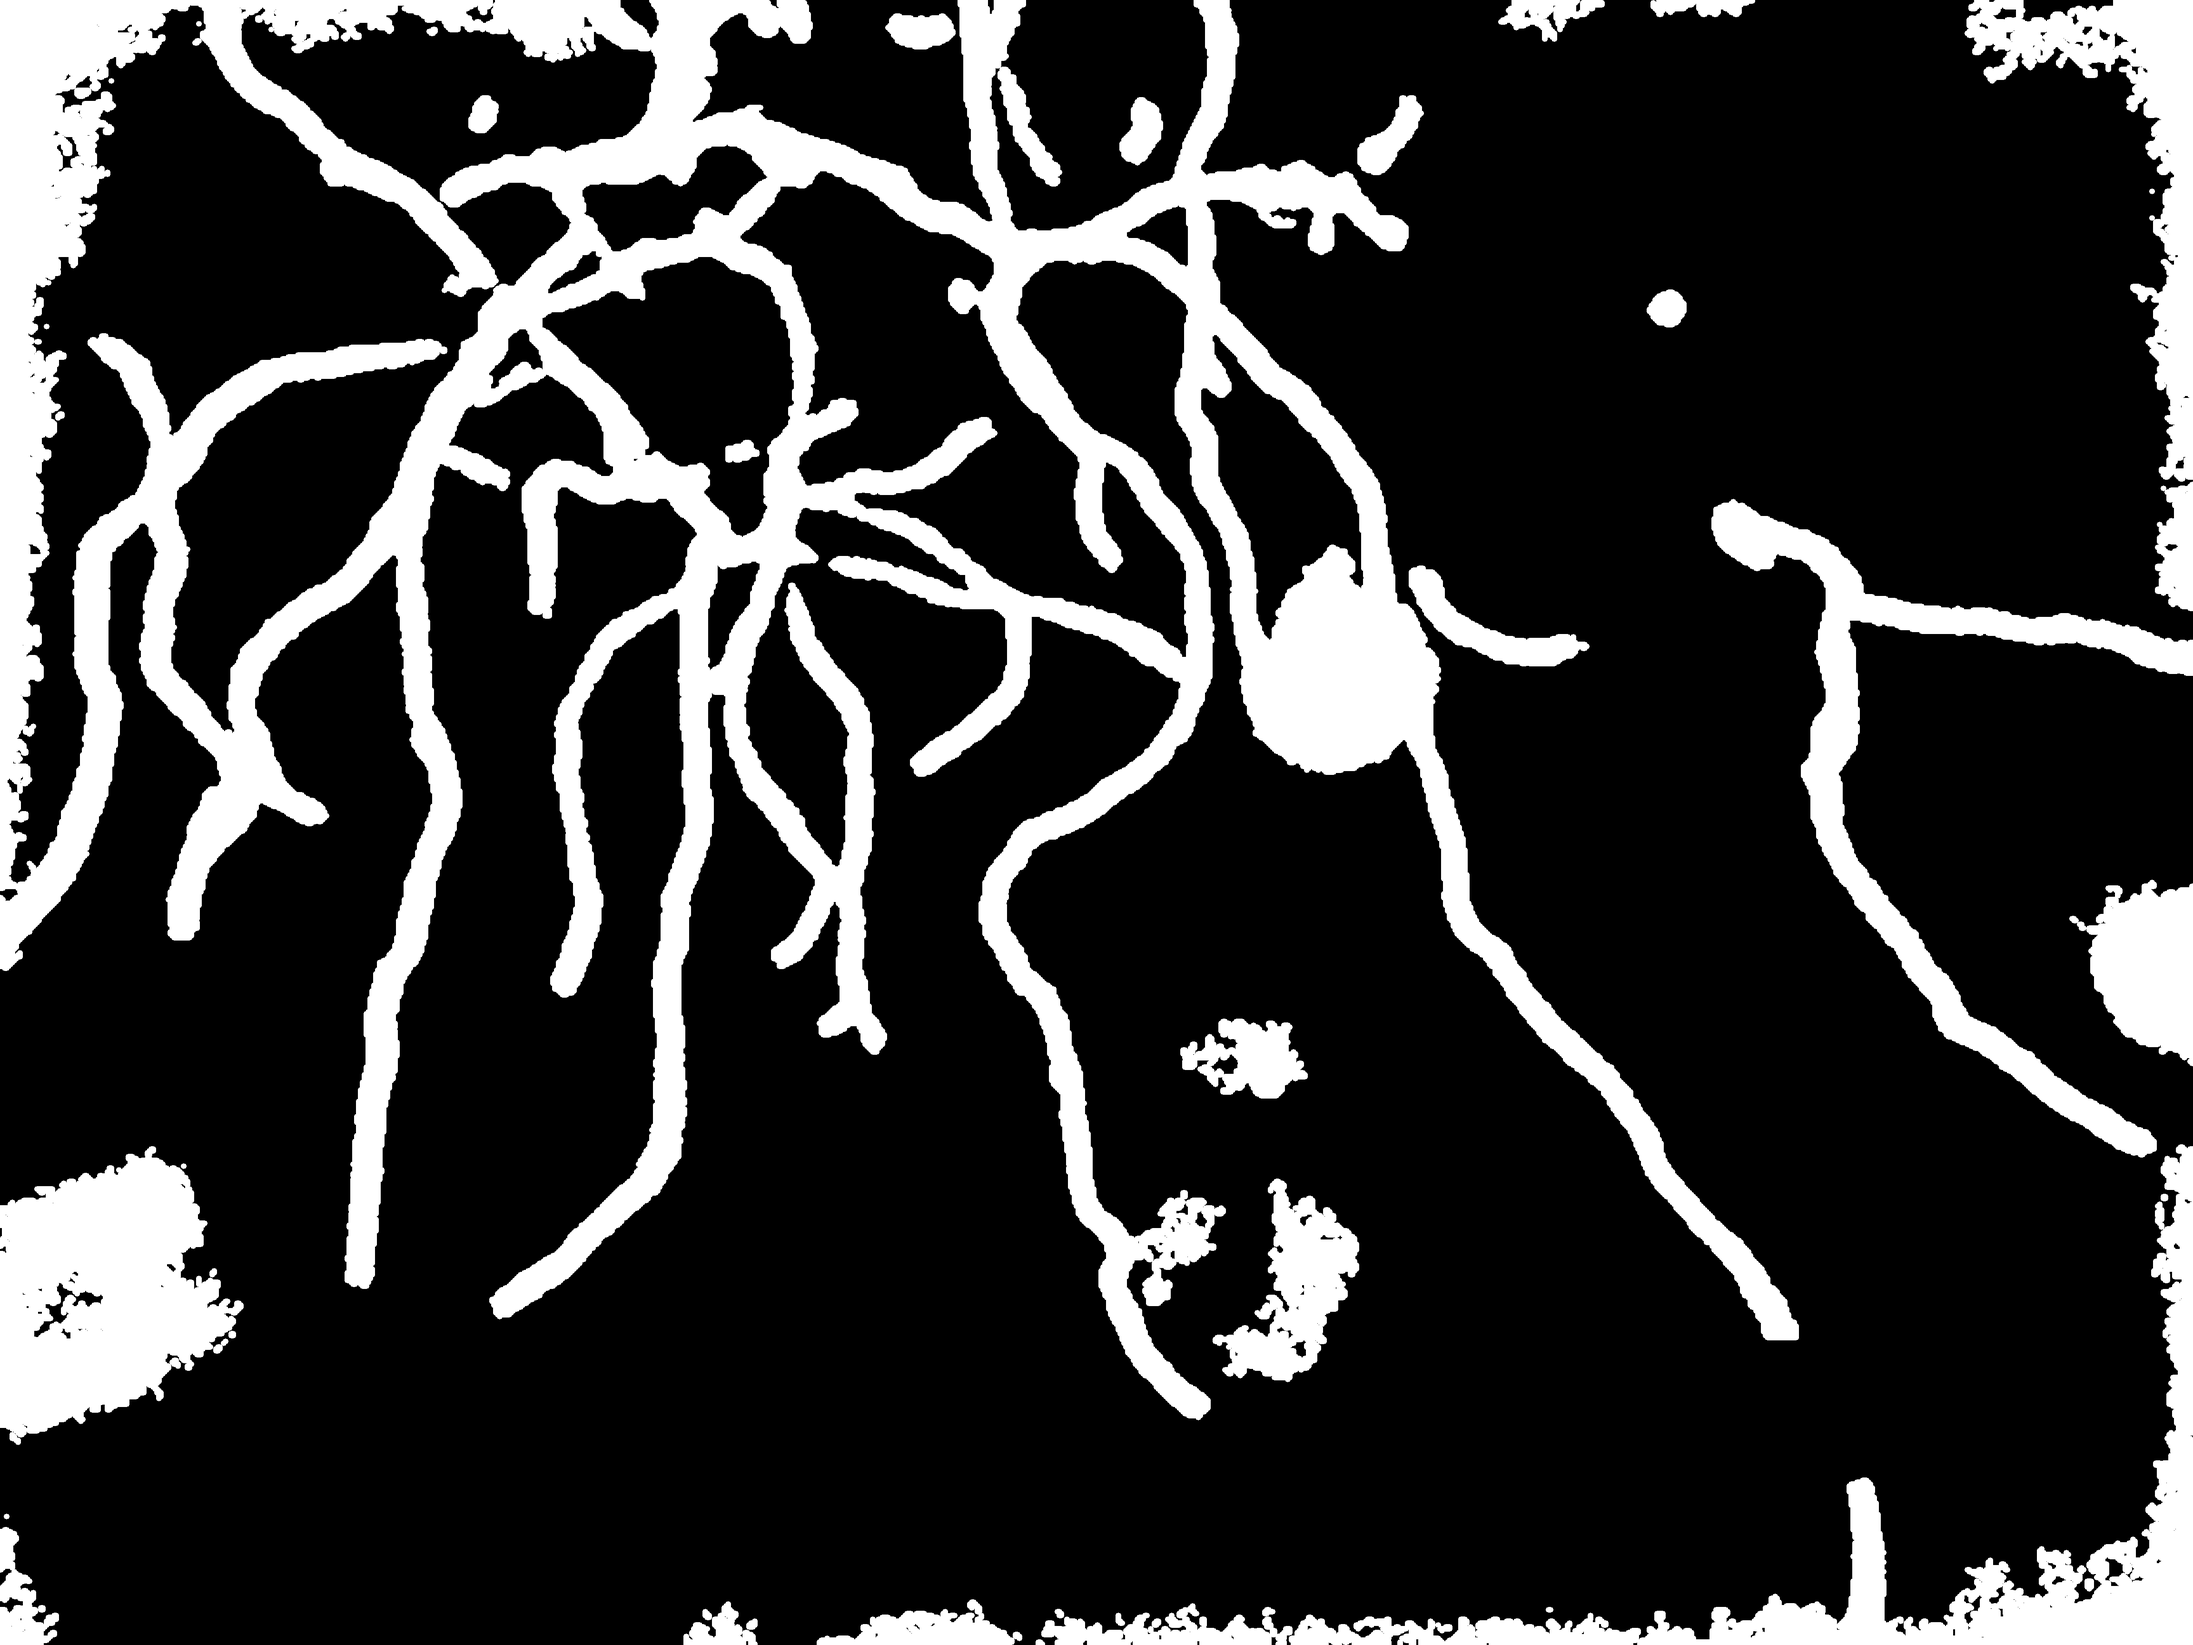
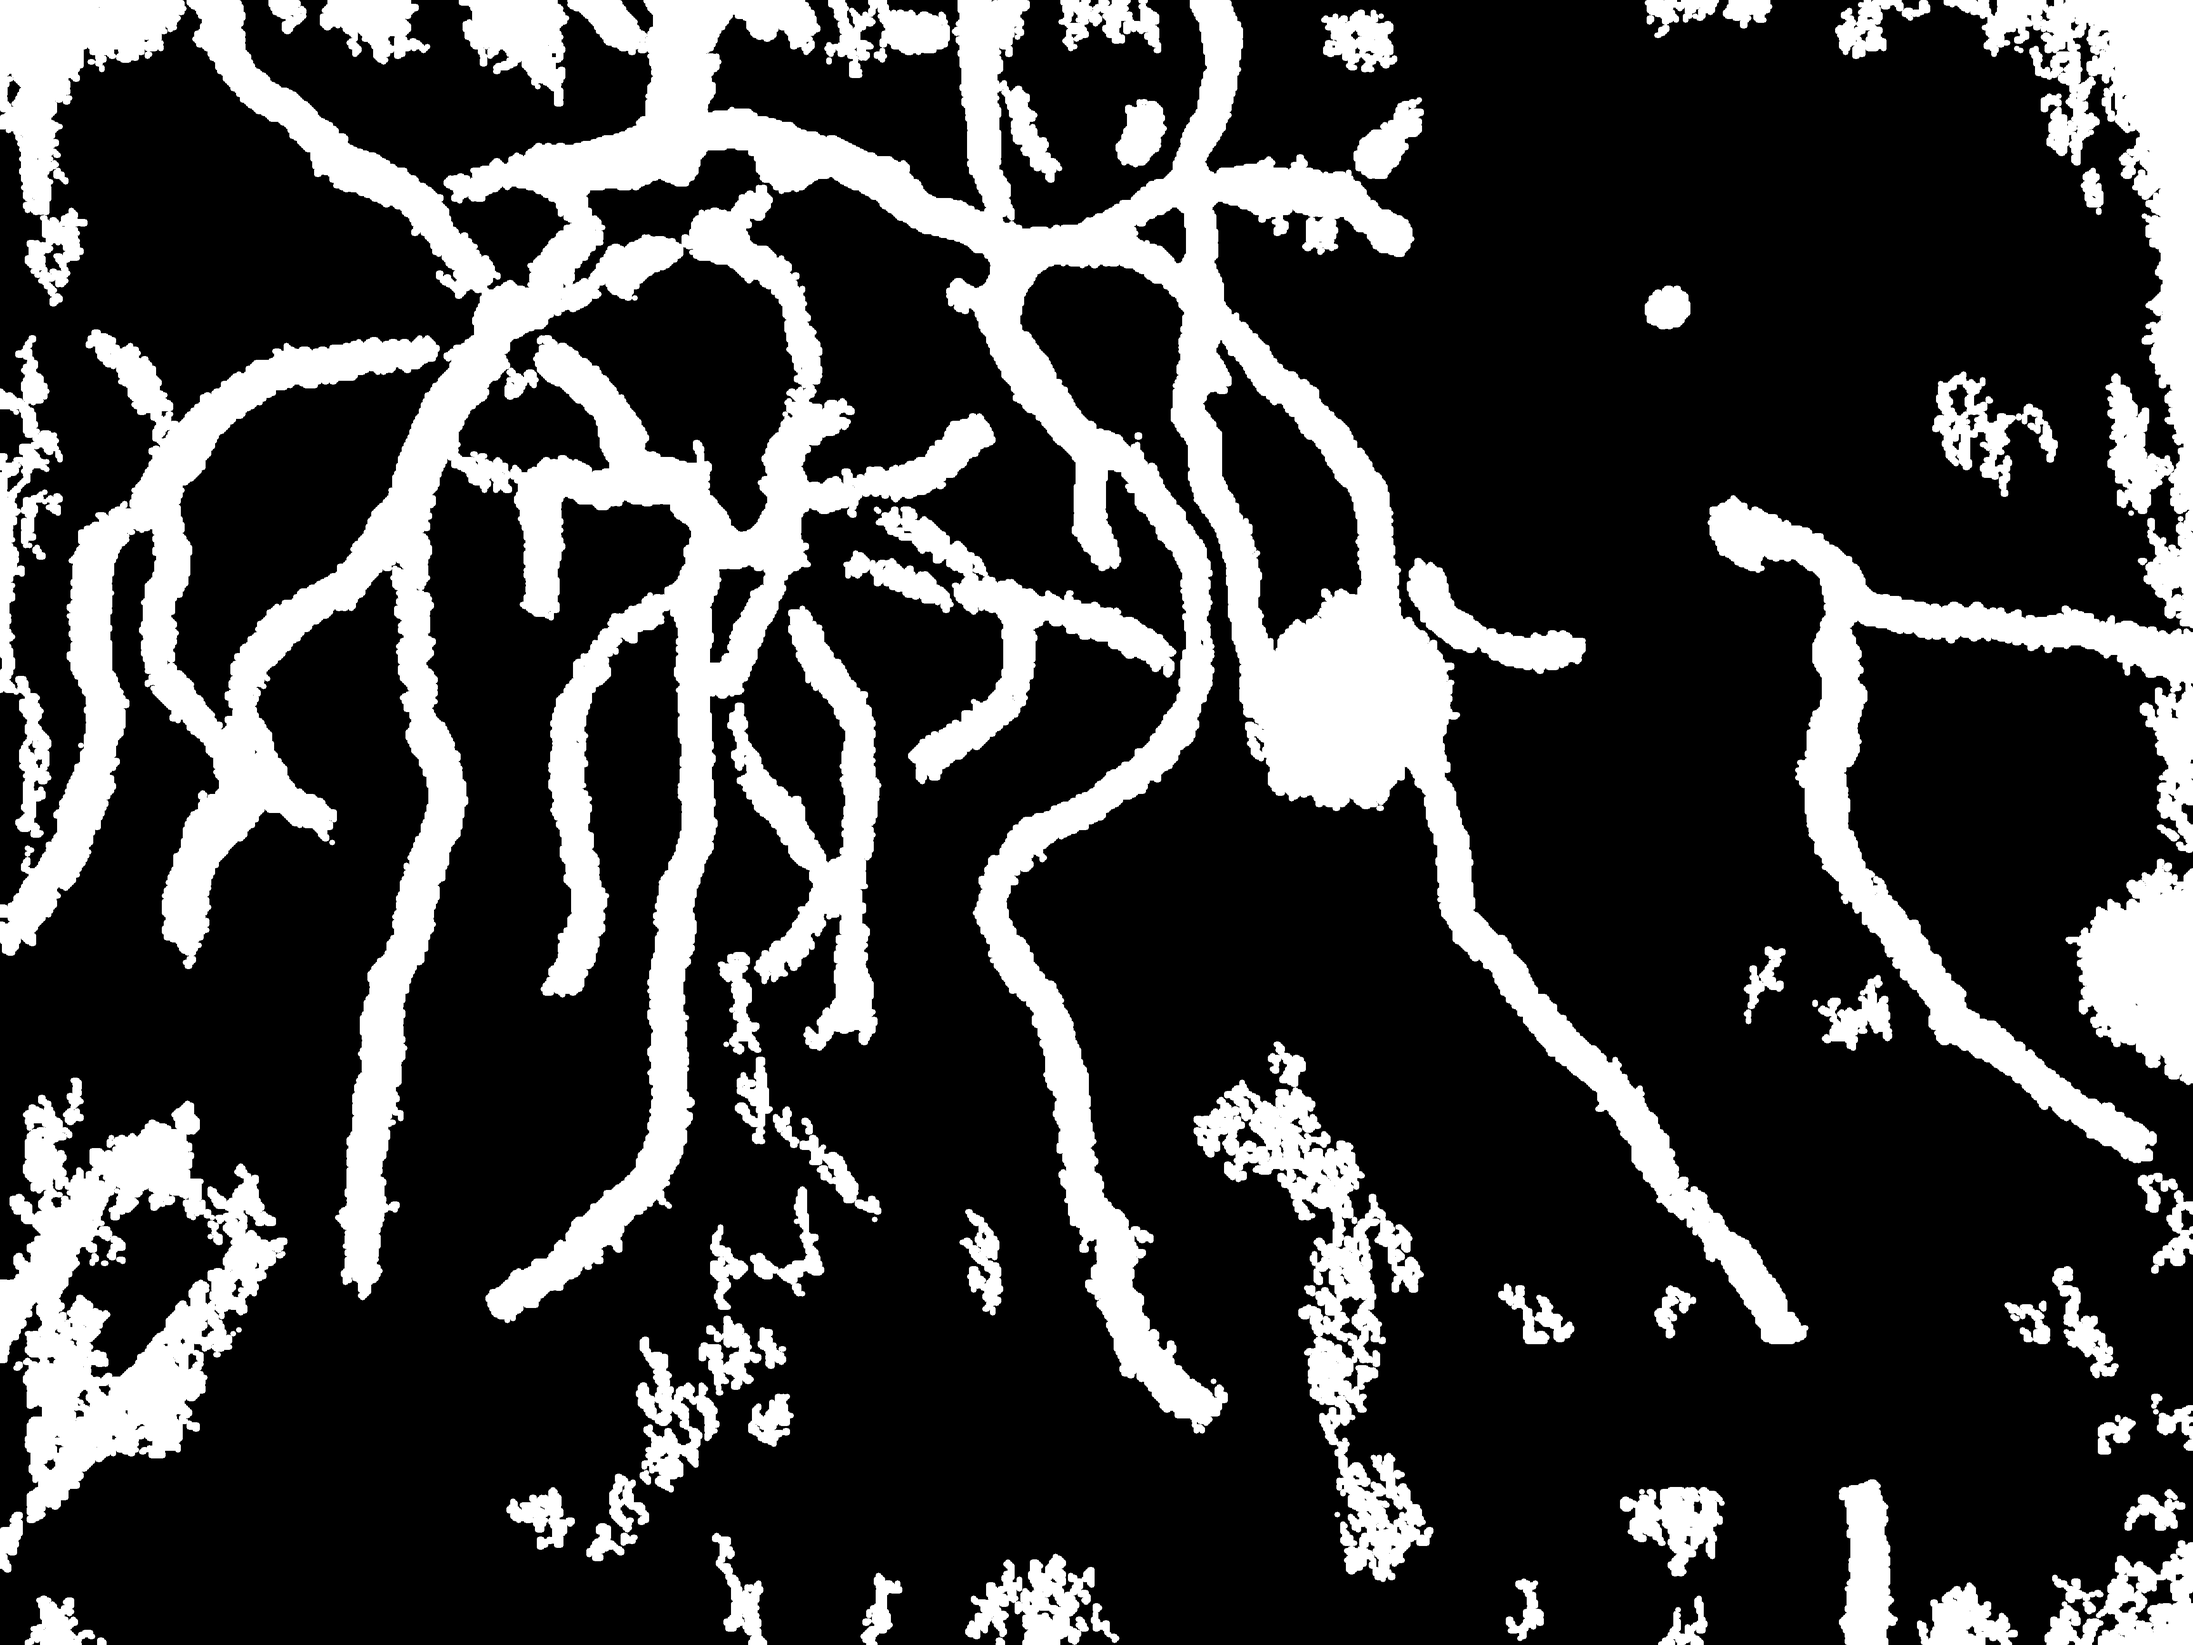
Prefer full-resolution calibration shots for the fungus map
Full-res flat-field shots at 5 mm (F/3.5-5.6) fill in the aperture table
and give a sharper base map than the 640x480 set. Measured with the same
yardstick, the remaining fungus shadow drops from 1.22% to 1.11% on
average (original: 2.56%).

Claude-Session: https://claude.ai/code/session_01C3sCV6jX3i6Xtogs23cCUr

diff --git a/fungusfix/mask.py b/fungusfix/mask.py
@@ -202,6 +202,7 @@ class _Reference:
     time: datetime | None
     fnumber: float | None = None
     session: int = -1
+    full_resolution: bool = True
 
 
 def _assign_sessions(refs: list[_Reference], gap_minutes: float) -> int:
@@ -295,13 +296,16 @@ def _calibration_map(
 ) -> DefectMask:
     """Mapa a partir de fotos de calibração (campo branco desfocado) de um mesmo zoom.
 
-    Usa as fotos de maior F (sombra mais nítida): desfocar um mapa nítido para
+    Prefere fotos em resolução total (detalhe fino dos filamentos) e, entre
+    elas, as de maior F (sombra mais nítida): desfocar um mapa nítido para
     casar com uma foto em F/3.5 funciona; o contrário não.
     """
-    fmax = max((r.fnumber or 0.0) for r in members)
-    sharp = [r for r in members if (r.fnumber or 0.0) >= fmax - p.sharp_fnumber_margin]
+    full = [r for r in members if r.full_resolution]
+    pool = full if len(full) >= 2 else members
+    fmax = max((r.fnumber or 0.0) for r in pool)
+    sharp = [r for r in pool if (r.fnumber or 0.0) >= fmax - p.sharp_fnumber_margin]
     if len(sharp) < 2:
-        sharp = members
+        sharp = pool
     stack = np.stack([r.residual for r in sharp])
     images = np.sum(~np.isnan(stack[..., 0]), axis=0)
     a = np.nan_to_num(-_nanmedian(stack), nan=0.0).astype(np.float32)
@@ -489,7 +493,16 @@ def _build_from_calibration(
         if flat < 0.3:
             log.info("%s ignorada: só %.0f%% de área lisa (textura, cena ou escura demais)", path.name, 100 * flat)
             continue
-        cal.append(_Reference(path.name, r, read_focal_length(path), read_capture_time(path), read_fnumber(path)))
+        cal.append(
+            _Reference(
+                path.name,
+                r,
+                read_focal_length(path),
+                read_capture_time(path),
+                read_fnumber(path),
+                full_resolution=img.shape[:2] == shape,
+            )
+        )
     if not cal:
         raise ValueError(f"nenhuma foto de calibração utilizável em {calibration_dir}")
 

diff --git a/README.md b/README.md
@@ -54,7 +54,7 @@ Arquivos que não são imagens válidas, ou com resolução diferente da máscar
 
 ### A correção
 
-1. **Mapa por zoom** (`mask/zoom_*mm/`), feito das fotos de calibração com maior F/ (sombra mais nítida), junto com uma tabela *abertura → (desfoque, intensidade)* medida nas próprias fotos de calibração.
+1. **Mapa por zoom** (`mask/zoom_*mm/`), feito das fotos de calibração em resolução total e, entre elas, as de maior F/ (sombra mais nítida), junto com uma tabela *abertura → (desfoque, intensidade)* medida nas próprias fotos de calibração.
 2. **Em cada foto**, o script lê zoom e abertura no EXIF, prevê o desfoque da sombra e **mede** desfoque e intensidade nas áreas lisas da própria foto. A intensidade também varia no espaço: onde a foto não mostra a sombra (textura, objeto na frente), a correção recua em vez de clarear um ponto que não estava escuro.
 3. **Correção flat-field:** cada pixel é multiplicado por `exp(k · desfoque(A))`, desfazendo a atenuação e recuperando a textura real sob o filamento. Isso é feito em duas passadas.
 4. **`cv2.inpaint`** (Telea/NS) só nos pixels quentes.
@@ -63,13 +63,13 @@ Arquivos que não são imagens válidas, ou com resolução diferente da máscar
 
 ### Resultado nas 21 fotos de referência
 
-Medida objetiva da sombra do fungo que continua visível, nas áreas lisas de cada foto:
+Medida objetiva da sombra do fungo que continua visível, nas áreas lisas de cada foto (medida com o mapa de calibração em resolução total):
 
 | | Antes | Depois |
 |---|---|---|
-| Céu/mar (3134, 3135, 3151–3155) | 1.0–4.1% | 0.2–1.0% |
-| Jantar (3139–3147) | 1.5–4.1% | 0.6–2.9% |
-| **Média** | **2.36%** | **0.87%** |
+| Céu/mar (3134, 3135, 3151–3155) | 1.0–4.0% | 0.2–1.1% |
+| Jantar (3139–3147) | 2.0–4.4% | 0.7–3.2% |
+| **Média** | **2.56%** | **1.11%** |
 
 As fotos do jantar em F/3.5 com luz de lâmpada são as mais difíceis. Nelas ainda sobra parte da sombra no alto da parede.
 
